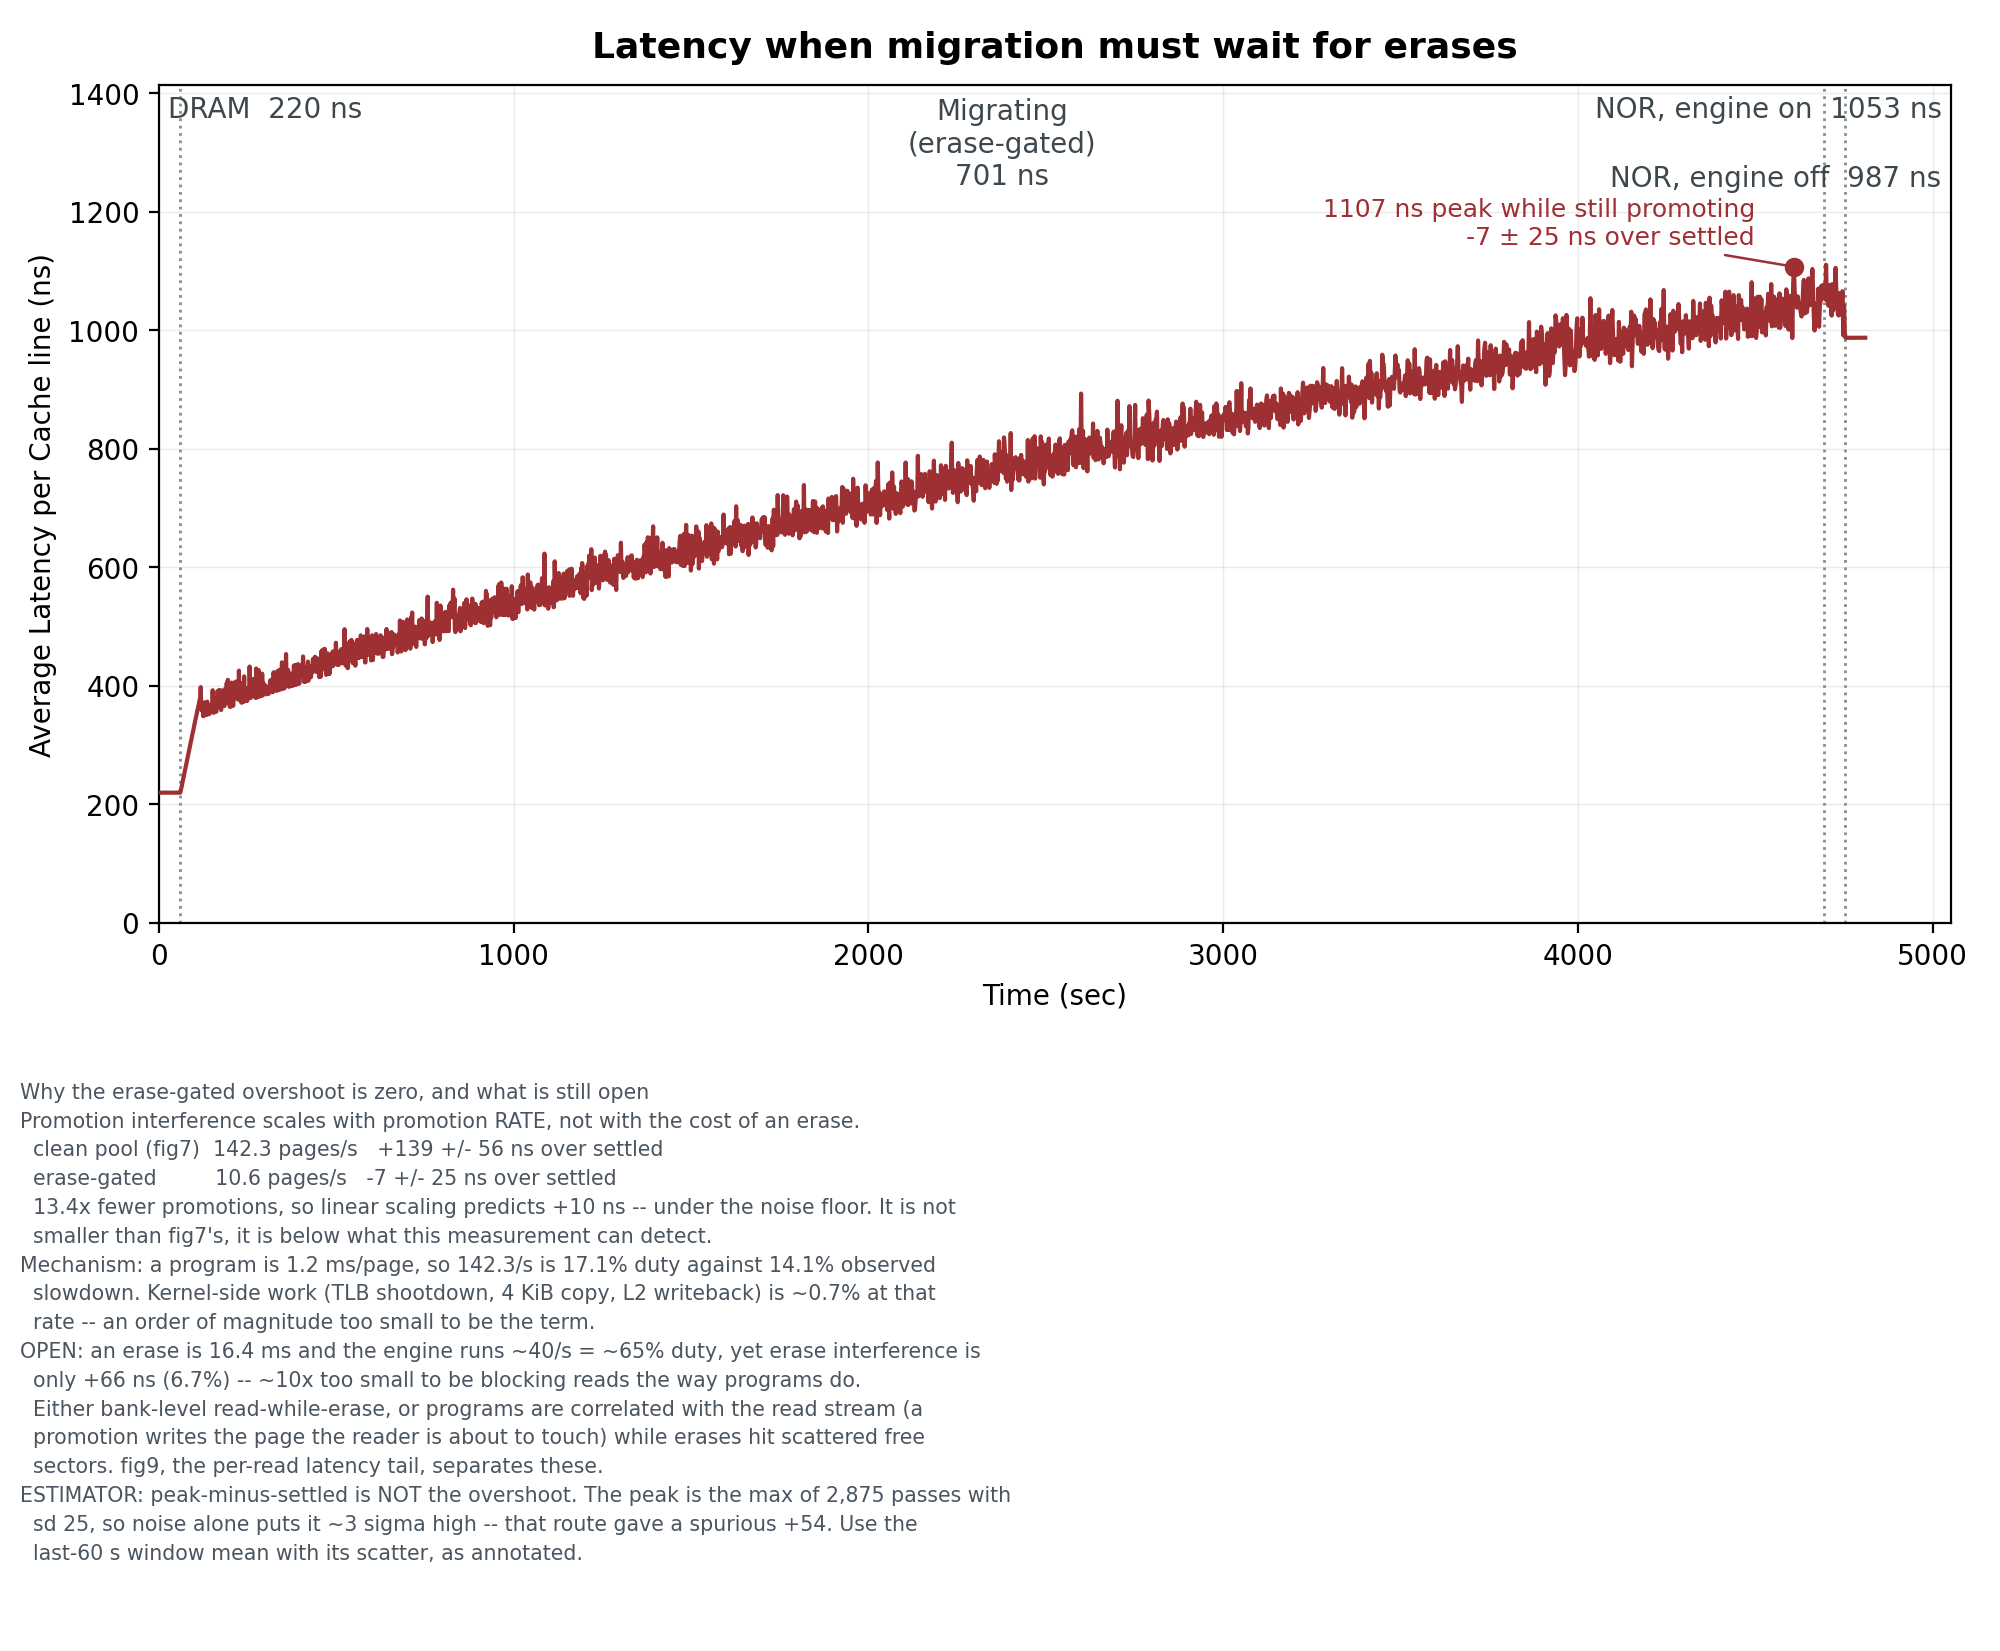
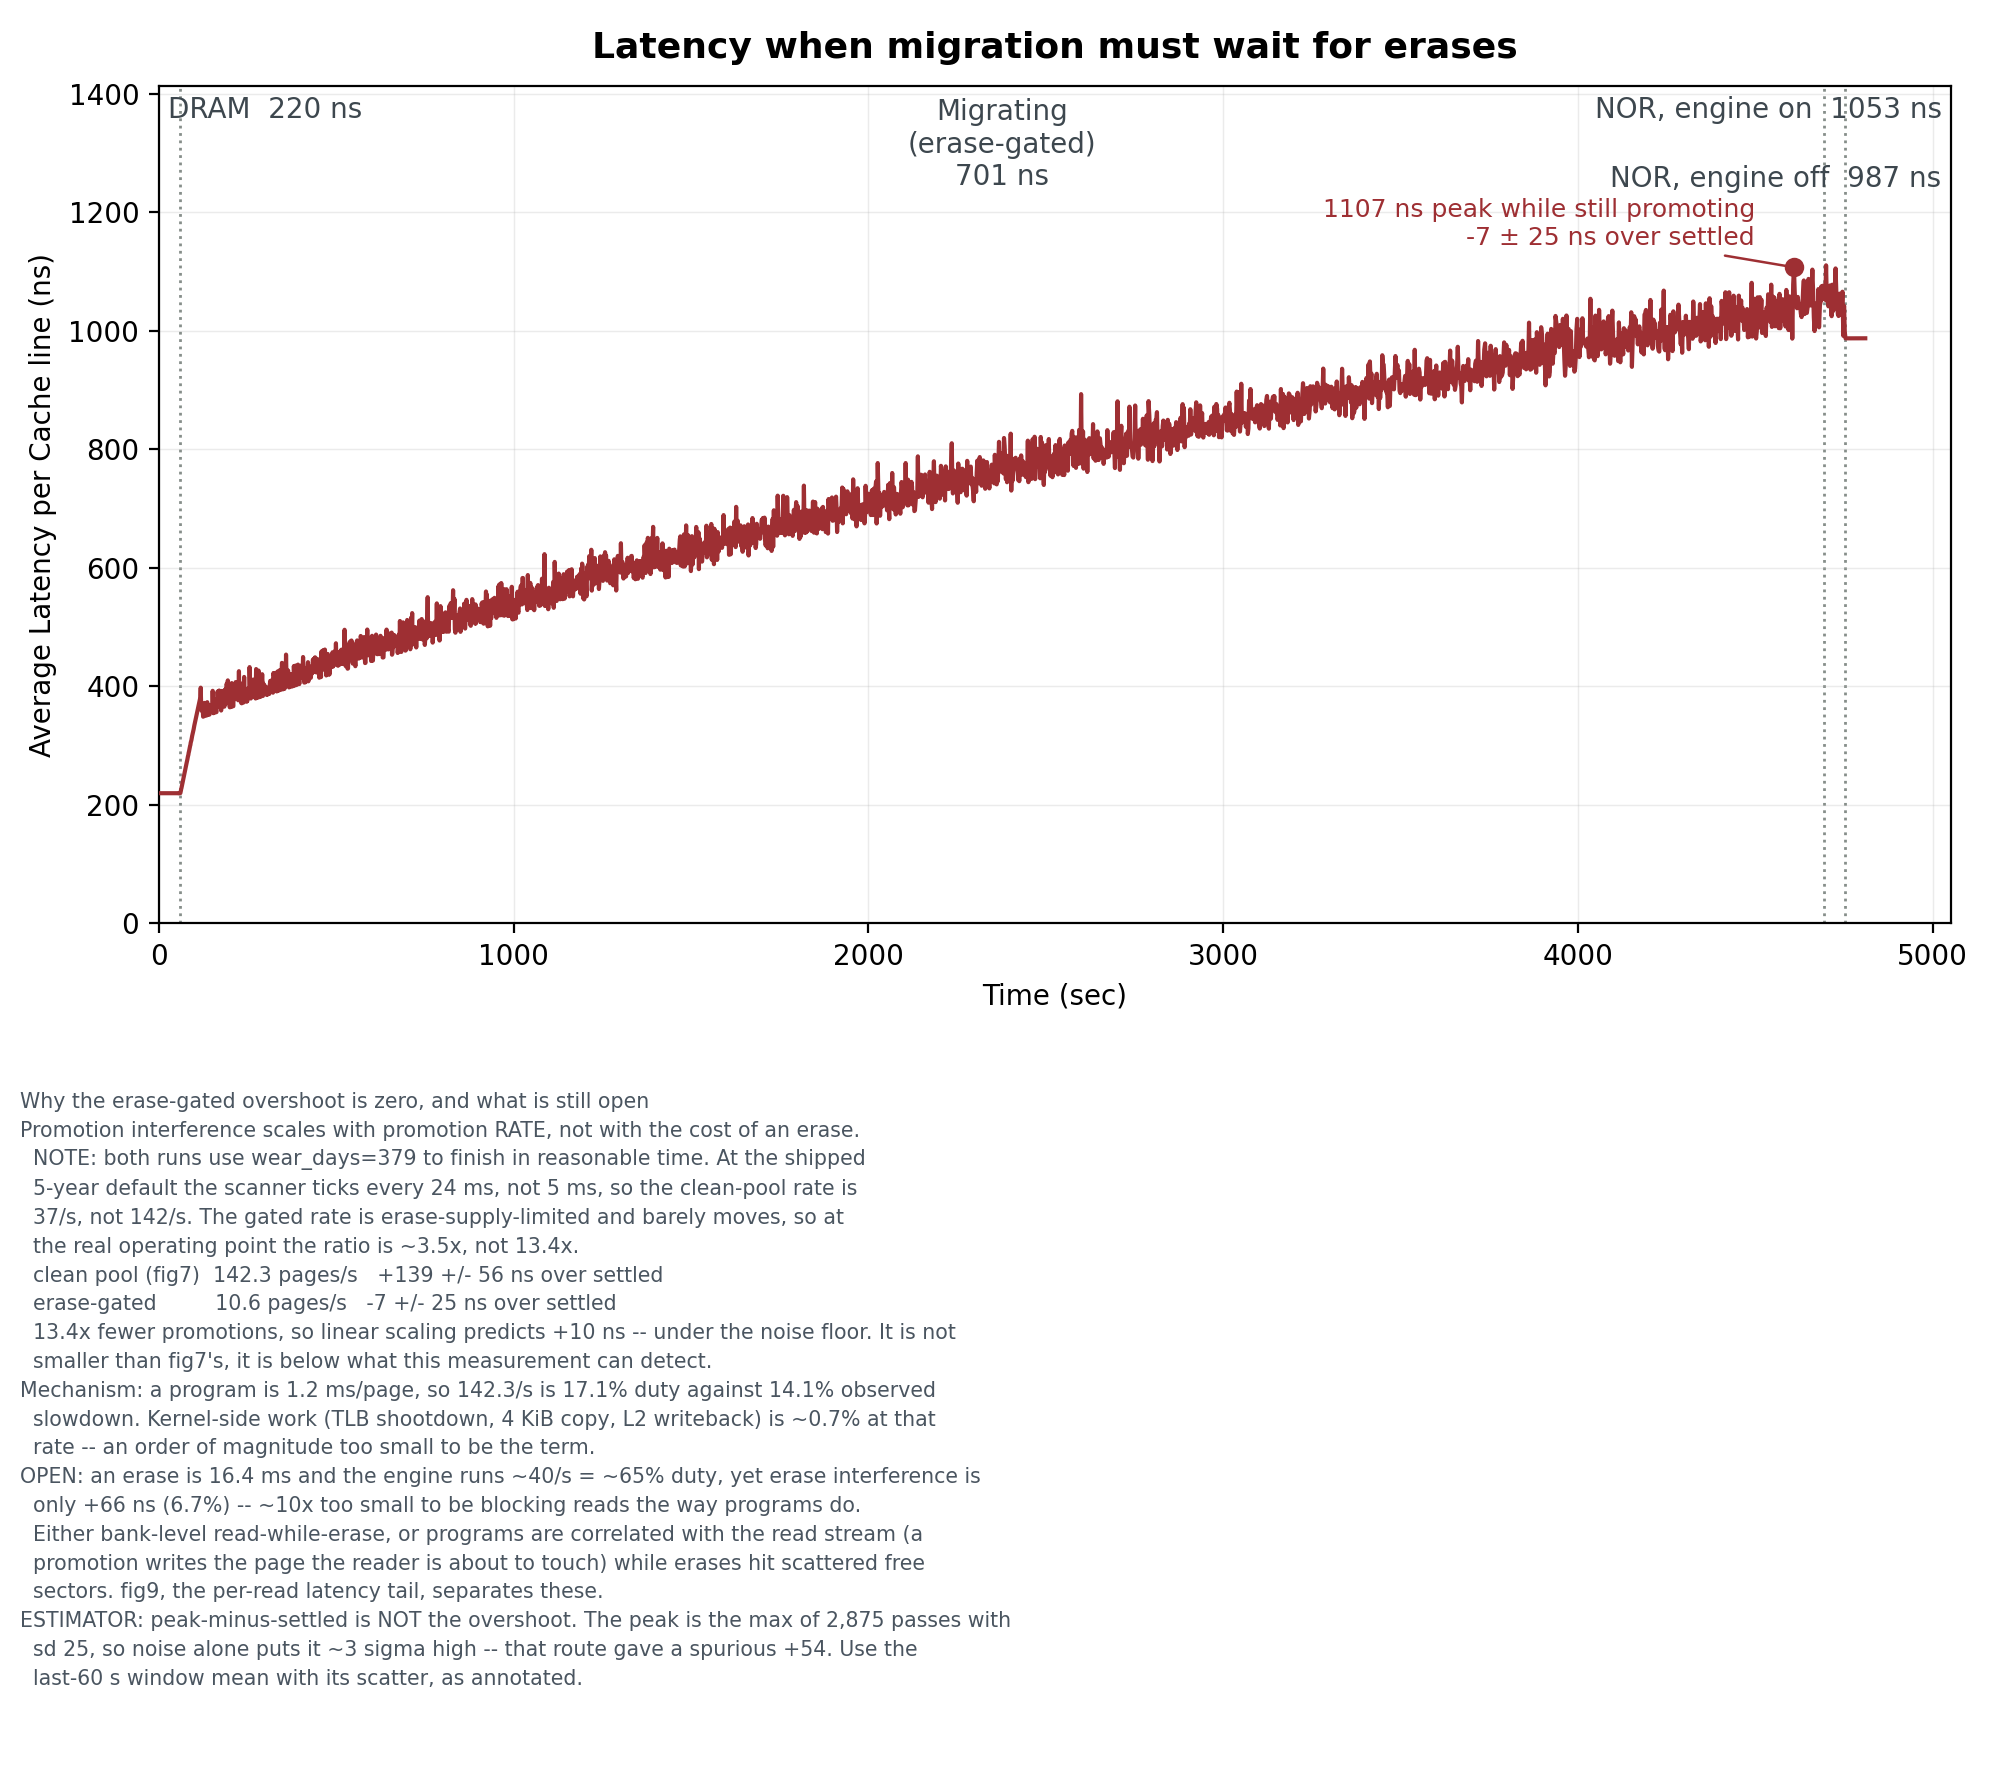
the 142 pages/s figure is an accelerated-wear number, and never said so
Caught by the workloads reviewer. Every sweep script sets wear_days=379 so a
run finishes in an hour instead of four. That gives the scanner a 5 ms tick
and ~142 promotions/s. The SHIPPED default is wear_days=1826 -- five years --
which gives a 24 ms tick and 37.0/s, a figure sitting in the first row of our
own promote-rate.csv the whole time (1822,24,37.0,37.0).

So 142 pages/s is a legitimate experimental acceleration, not the operating
point, and it has been quoted all session as though it were the latter.

It also changes fig8. The erase-gated rate of 10.6/s is limited by erase
supply, not by the governor, so it barely moves with wear_days. The 13.4x
gap between clean-pool and gated promotion is therefore an artifact of the
acceleration: at the real five-year budget it is 37/10.6 = ~3.5x. The figure
note now states the wear budget and both ratios.

diff --git a/scripts/plot_selftest.py b/scripts/plot_selftest.py
@@ -442,6 +442,10 @@ if r:
               max(1, sum(1 for q in ph if q == mig + 1))
         note += [
           f"Promotion interference scales with promotion RATE, not with the cost of an erase.",
+          f"  NOTE: both runs use wear_days=379 to finish in reasonable time. At the shipped",
+          f"  5-year default the scanner ticks every 24 ms, not 5 ms, so the clean-pool rate is",
+          f"  37/s, not {r7:.0f}/s. The gated rate is erase-supply-limited and barely moves, so at",
+          f"  the real operating point the ratio is ~3.5x, not {r7/r8:.1f}x.",
           f"  clean pool (fig7)  {r7:5.1f} pages/s   {o7[1]:+.0f} +/- {o7[2]:.0f} ns over settled",
           f"  erase-gated        {r8:5.1f} pages/s   {o8[1]:+.0f} +/- {o8[2]:.0f} ns over settled",
           f"  {r7/r8:.1f}x fewer promotions, so linear scaling predicts {o7[1]/(r7/r8):+.0f} ns -- under the noise floor. It is not",
